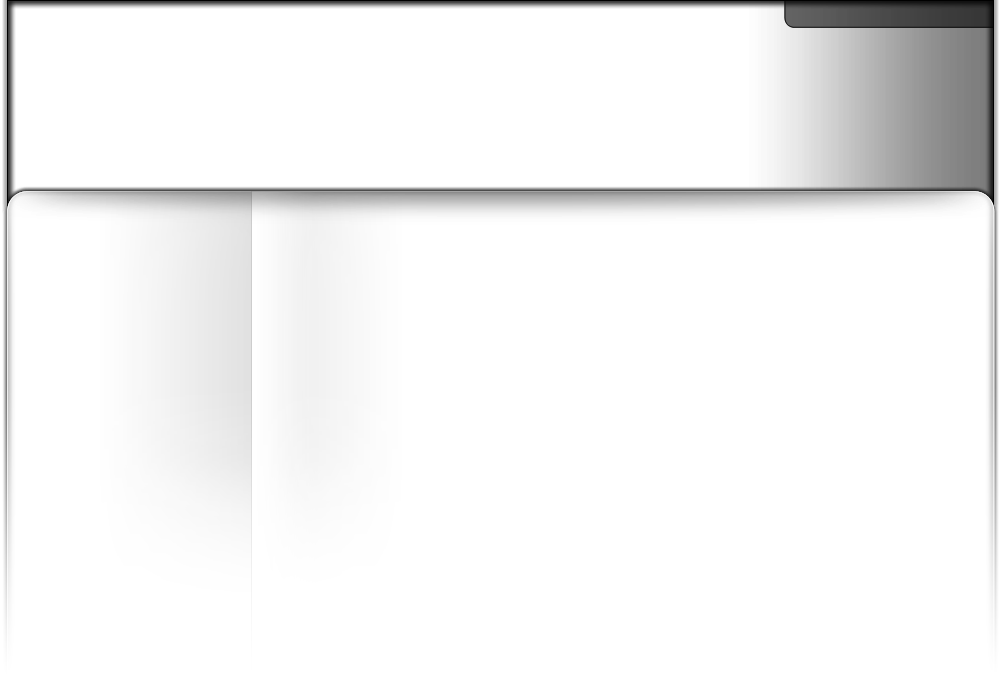
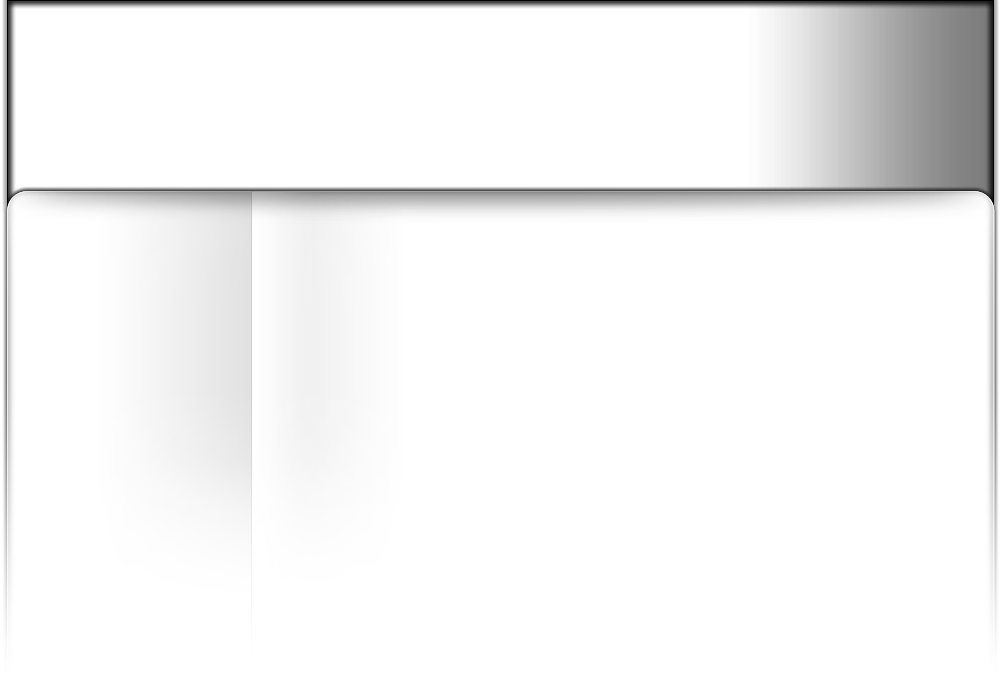
Arrangement CSS de l'upper-bar (login)

Changed region(s): [[0.775, 0.0, 0.992, 0.06]]

diff --git a/web/css/frontend.css b/web/css/frontend.css
@@ -93,9 +93,24 @@ div#upper-bar {
 	height: 28px;
 	padding-top: 0px;
 	position: relative;
+        padding-right: 6px;
 }
 
 div#upper-bar div {
+	background-color: #000;
+	/* -> border */
+	border-radius: 0px 0px 0px 10px;
+	-moz-border-radius: 0px 0px 0px 10px;
+	-webkit-border-radius: 0px 0px 0px 10px;
+	-khtml-border-radius: 0px 0px 0px 10px;
+	/* <- border */
+	/* -> opacity */
+	-moz-opacity:0.8;
+	opacity: 0.8;
+	filter:alpha(opacity=80);
+	/* <- opacity */
+	height: 28px;
+	float: right;
 }
 
 div#upper-bar ul {

diff --git a/apps/frontend/templates/layout.php b/apps/frontend/templates/layout.php
@@ -50,11 +50,13 @@
 
             <div id ="upper-bar">
                 <div>
-                    <ul>
-                        <li><a id="login-bar-button" href="<?php echo url_for('@sf_guard_auth_signin') ?>"><?php echo __("Se connecter") ?></a></li>
-                        <li><span>|</span></li>
-                        <li><a href="<?php echo url_for('@sf_guard_register') ?>"><?php echo __("S'inscrire") ?></a></li>
-                    </ul>
+                    <div>
+                        <ul>
+                            <li><a id="login-bar-button" href="<?php echo url_for('@sf_guard_auth_signin') ?>"><?php echo __("Se connecter") ?></a></li>
+                            <li><span>|</span></li>
+                            <li><a href="<?php echo url_for('@sf_guard_register') ?>"><?php echo __("S'inscrire") ?></a></li>
+                        </ul>
+                    </div>
                 </div>
             </div>
 
